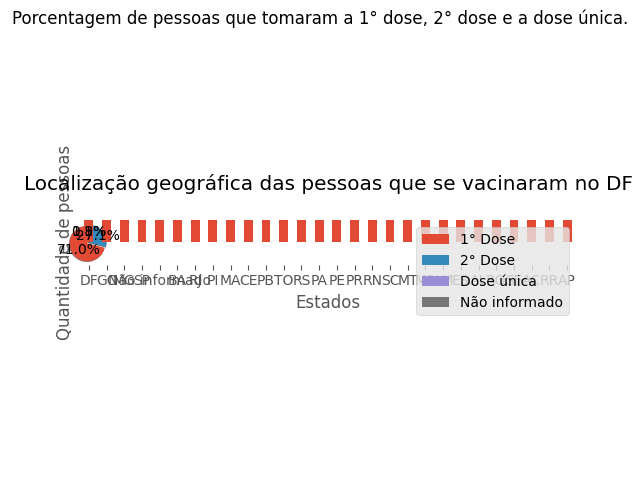
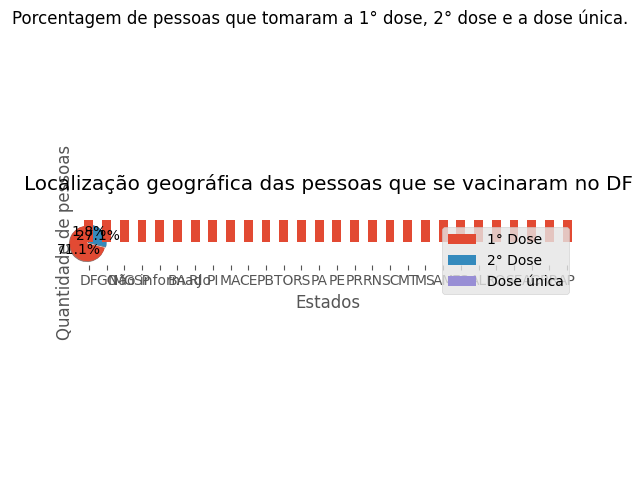
Ajustando layout dos graficos.

Changed region(s): [[0.625, 0.4688, 0.9062, 0.6562], [0.0938, 0.4688, 0.1562, 0.5312]]

diff --git a/aadc/static/css/style.css b/aadc/static/css/style.css
@@ -29,10 +29,10 @@ img {
 .info-total {
     border-radius: 20px;
     background-color: #719eff;
-    padding: 10px;
+    padding: 8px;
     font-family: sans-serif;
     text-align: center;
-    margin-left: 8px;
+    margin-left: 7px;
     box-shadow: 2px 2px 2px 1px rgba(0, 0, 0, 0.2);
     color: white;
 }

diff --git a/analysis/graph.py b/analysis/graph.py
@@ -39,7 +39,7 @@ dados_vacina.drop(dados_vacina.loc[dados_vacina['paciente_racacor_valor'] == 50.
 #Alteração na UF do paciente
 dados_vacina.loc[dados_vacina['paciente_endereco_uf'] == 'XX'] = 'Não informado'
 
-####################### Quantidade de pessoas que tomaram a 1°, 2° e 3° dose #######################
+####################### Função para salvar os graficos #######################
 
 def save_graph(name, buf):
     if not os.path.isfile(name):
@@ -47,16 +47,22 @@ def save_graph(name, buf):
         f.write(buf)
         f.close()
 
+####################### Quantidade de pessoas que tomaram a 1°, 2° e 3° dose #######################
+
 def graf_quant_dose123(name):
     # Filtrando dados do DataFrame
-    colunas = ['vacina_descricao_dose']
-    doses = dados_vacina.filter(items=colunas)
- 
-    graf = doses.value_counts()
 
-    labels = ['1° Dose', '2° Dose', 'Dose única','Não informado' ]
+    colunas = ['vacina_descricao_dose']
+    vacina_dose = dados_vacina.filter(items=colunas)
+    
+    # Removendo dados de não informado
+    vacina_dose.drop(vacina_dose.loc[vacina_dose['vacina_descricao_dose'] == 'Não informado'].index, inplace=True)
+ 
+    graf = vacina_dose.value_counts()
+
+    labels = ['1° Dose', '2° Dose', 'Dose única']
     plt.style.use("ggplot")
-    explode = (0.1, 0.0, 0.0, 0.0)
+    explode = (0.1, 0.0, 0.0)
 
     labels1 = ['', '', '', '']
     graf.plot.pie(autopct='%1.1f%%', shadow=True, startangle = 90, ylabel='', title = 'Porcentagem de pessoas que tomaram a 1° dose, 2° dose e a dose única.\n', subplots=True, labels = labels1,explode= explode ) 
